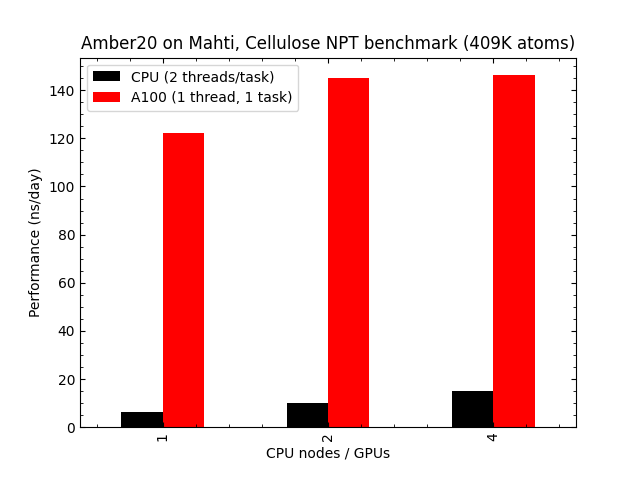
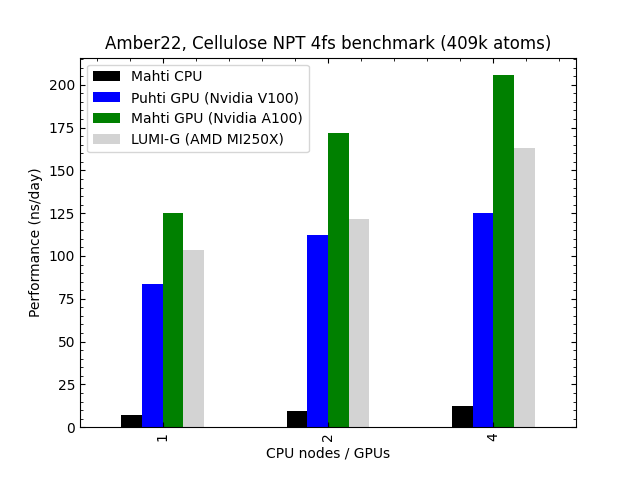
Add LUMI documentation for Amber (#1532)
* Add LUMI documentation for Amber

* edits

* add throughput

* add throughput

* fix header

* typos

diff --git a/docs/apps/amber.md b/docs/apps/amber.md
@@ -15,6 +15,7 @@ refinement.
 
 * Puhti: 20, 20-cuda, 22, 22-cuda
 * Mahti: 20, 20-cuda, 22, 22-cuda
+* LUMI: 22-cpu, 22-gpu
 
 ## License
 
@@ -36,12 +37,15 @@ system preparation can be done on the login node as well (short serial AmberTool
 jobs).
 
 !!! info "Python modules"
-    Please use the Amber22 modules if you intend to run the Python scripts
-    distributed with AmberTools. These are not available in the older modules.
+    Please use the Amber22 modules on Puhti/Mahti if you intend to run the Python
+    scripts distributed with AmberTools. These are not available in the older modules,
+    nor on LUMI.
 
-Molecular dynamics jobs are best run with `pmemd.CUDA`. They are much faster
-on GPUs than on CPUs. Please note that using `pmemd.CUDA` requires a module
-with the `-cuda` extension.
+Molecular dynamics jobs are best run with `pmemd.cuda`. They are much faster
+on GPUs than on CPUs. Please note that using `pmemd.cuda` requires a module
+with the `-cuda` extension. Similarly, on LUMI one should use `pmemd.hip` (or
+`pmemd.hip.MPI` for multi-GPU simulations), which requires loading a module
+with the `-gpu` extension.
 
 !!! warning "Note"
     Run only GPU aware binaries in the GPU partitions. If you're unsure,
@@ -72,15 +76,13 @@ srun pmemd.cuda -O -i mdin -r restrt -x mdcrd -o mdout
 
 !!! info "Note"
     If you want to use more than one GPU, perform scaling tests to verify that the
-    jobs really become faster. The rule of thumb is that when you double the resources,
-    the job duration should decrease at least 1.5-fold. For overall performance info,
-    consult the [Amber benchmark scaling details](http://ambermd.org/GPUPerformance.php).
-    Typically, best efficiency is achieved with 1 GPU. For example, the Cellulose NPT
-    benchmark does not scale to multiple GPUs, but it is still massively faster on a
-    single GPU than the CPU version (see below).
-
-![Amber scaling on GPUs and CPUs on Mahti](../img/cellulose-amber.png 'Amber
-scaling on GPUs and CPUs on Mahti')
+    jobs really become faster and use a binary with `.cuda.MPI` or `.hip.MPI` extension.
+    The rule of thumb is that when you double the resources, the job duration should
+    decrease at least 1.5-fold. For overall performance info, consult the [Amber benchmark
+    scaling details](http://ambermd.org/GPUPerformance.php). Typically, best efficiency
+    is achieved with 1 GPU. For example, the Cellulose NPT benchmark does not scale well
+    to multiple GPUs, but it is still massively faster on a single GPU than the CPU
+    version (see diagram below).
 
 You can find example inputs from the Amber20 tests directory:
 
@@ -88,7 +90,7 @@ You can find example inputs from the Amber20 tests directory:
 ls $AMBERHOME/test
 ```
 
-The non-CUDA aware binaries, *e.g.* AmberTools, can be run as batch jobs in the
+The non-GPU aware binaries, *e.g.* AmberTools, can be run as batch jobs in the
 following way (on Puhti):
 
 ```bash
@@ -108,11 +110,12 @@ srun paramfit -i Job_Control.in -p prmtop -c mdcrd -q QM_data.dat
 ```
 
 !!! info "Note"
-    `pmemd.CUDA` is way faster than `pmemd.MPI`, so use a CPU-version only in
-    case you cannot use the GPU-version. If Amber performance is not fast
-    enough, consider using [Gromacs](gromacs.md), which can make use of more
-    CPU cores (*i.e.* scales further). In particular, for large scale or very
-    long MD simulations consider using a better scaling MD engine.
+    `pmemd.cuda` and `pmemd.hip` are way faster than `pmemd.MPI`, so use a
+    CPU-version only in case you cannot use the GPU-version. If Amber performance
+    is not fast enough, consider using [Gromacs](gromacs.md), which can make use
+    of more CPU cores (*i.e.* scales further). In particular, for large scale or
+    very long MD simulations consider using a better scaling MD engine. An alternative
+    is to [run ensemble simulations using multi-pmemd](#high-throughput-computing-with-amber).
 
 ### Interactive jobs
 
@@ -133,6 +136,117 @@ the `paramfit` task directly with:
 ```bash
 paramfit -i Job_Control.in -p prmtop -c mdcrd -q QM_data.dat
 ```
+
+### Amber on LUMI
+
+Amber can be loaded into use on LUMI with:
+
+```bash
+module use /appl/local/csc/modulefiles
+module load amber/22-gpu
+# or
+module load amber/22-cpu
+```
+
+!!! info "Note"
+    You need to run the `module use` command to modify your `$MODULEPATH`,
+    otherwise modules pre-installed by CSC cannot be accessed.
+
+Example batch job script for LUMI-G:
+
+```bash
+#!/bin/bash -l
+#SBATCH --partition=small-g
+#SBATCH --nodes=1
+#SBATCH --ntasks-per-node=1
+#SBATCH --gpus-per-node=1
+#SBATCH --time=01:00:00
+#SBATCH --account=<project>
+
+module purge
+module use /appl/local/csc/modulefiles
+module load amber/22-gpu
+
+srun pmemd.hip.MPI -O -i mdin.GPU -o mdout.GPU -p Cellulose.prmtop -c Cellulose.inpcrd
+```
+
+A performance comparison of Amber on CPUs and GPUs on Puhti, Mahti and LUMI is shown
+in the bar plot below. Note how the performance of a single GPU on all systems is an
+order of magnitude better than a full Mahti CPU node (128 cores).
+
+![Amber scaling on GPUs and CPUs on Puhti, Mahti and LUMI](../img/cellulose-amber.png 'Amber
+scaling on GPUs and CPUs on Puhti, Mahti and LUMI')
+
+!!! info "GPU binding on LUMI"
+    For best performance, *multi-GPU* simulations on LUMI-G are likely to
+    benefit from GPU binding. For background and instructions, see the
+    [LUMI documentation](https://docs.lumi-supercomputer.eu/runjobs/scheduled-jobs/distribution-binding/#gpu-binding).
+
+General batch script examples for [LUMI-G](https://docs.lumi-supercomputer.eu/runjobs/scheduled-jobs/lumig-job/)
+and [LUMI-C](https://docs.lumi-supercomputer.eu/runjobs/scheduled-jobs/lumic-job/) are available in the LUMI
+documentation.
+
+### High-throughput computing with Amber
+
+Similar to [Gromacs multidir](gromacs.md#high-throughput-computing-with-gromacs),
+Amber has a built-in "multi-pmemd" functionality, which allows you to run multiple
+MD simulations within a single Slurm allocation. This is an efficient option in cases
+where you want to run many similar, but independent, simulations. Typical use cases
+are enhanced sampling methods such as umbrella sampling or replica exchange MD. Also,
+since Amber simulations do not scale that well to multiple GPUs, multi-pmemd can be
+used as a straightforward method to accelerate sampling by launching several differently
+initialized copies of your system, all running simultaneously on a single GPU each.
+
+!!! info "Note"
+    GPU resources on Puhti and Mahti are scarce, so we recommend running large-scale multi-pmemd
+    simulations only on LUMI. LUMI-G has a massive GPU capacity available, which is also [more
+    affordable in terms of BUs](https://docs.lumi-supercomputer.eu/runjobs/lumi_env/billing/)
+    compared to Puhti and Mahti.
+
+An example multi-pmemd batch script for LUMI-G is provided below.
+
+```bash
+#!/bin/bash -l
+#SBATCH --partition=standard-g
+#SBATCH --nodes=2
+#SBATCH --ntasks-per-node=8
+#SBATCH --gpus-per-node=8
+#SBATCH --time=01:00:00
+#SBATCH --account=<project>
+
+module purge
+module use /appl/local/csc/modulefiles
+module load amber/22-gpu
+
+srun pmemd.hip.MPI -ng 16 -groupfile groupfile
+```
+
+In this example, 16 copies of a system are run concurrently within a single Amber job,
+each using 1 GPU. From the perspective of Slurm, each node on LUMI-G contains 8 GPUs,
+so 2 nodes are requested in total. The input, output, topology and coordinate files
+for the respective simulations are defined in a so-called `groupfile`:
+
+```bash
+-O -i mdin.GPU -o mdout000.GPU -p system000.prmtop -c system000.inpcrd
+-O -i mdin.GPU -o mdout001.GPU -p system001.prmtop -c system001.inpcrd
+-O -i mdin.GPU -o mdout002.GPU -p system002.prmtop -c system002.inpcrd
+-O -i mdin.GPU -o mdout003.GPU -p system003.prmtop -c system003.inpcrd
+-O -i mdin.GPU -o mdout004.GPU -p system004.prmtop -c system004.inpcrd
+-O -i mdin.GPU -o mdout005.GPU -p system005.prmtop -c system005.inpcrd
+-O -i mdin.GPU -o mdout006.GPU -p system006.prmtop -c system006.inpcrd
+-O -i mdin.GPU -o mdout007.GPU -p system007.prmtop -c system007.inpcrd
+-O -i mdin.GPU -o mdout008.GPU -p system008.prmtop -c system008.inpcrd
+-O -i mdin.GPU -o mdout009.GPU -p system009.prmtop -c system009.inpcrd
+-O -i mdin.GPU -o mdout010.GPU -p system010.prmtop -c system010.inpcrd
+-O -i mdin.GPU -o mdout011.GPU -p system011.prmtop -c system011.inpcrd
+-O -i mdin.GPU -o mdout012.GPU -p system012.prmtop -c system012.inpcrd
+-O -i mdin.GPU -o mdout013.GPU -p system013.prmtop -c system013.inpcrd
+-O -i mdin.GPU -o mdout014.GPU -p system014.prmtop -c system014.inpcrd
+-O -i mdin.GPU -o mdout015.GPU -p system015.prmtop -c system015.inpcrd
+```
+
+See the [Amber manual](https://ambermd.org/doc12/Amber22.pdf) for further details
+on multi-pmemd.
 
 ## References
 

diff --git a/docs/computing/running/throughput.md b/docs/computing/running/throughput.md
@@ -53,7 +53,7 @@ regarding how to implement your workflow.
 ```mermaid
 %%{init: {'theme': 'default', 'themeVariables': { 'fontSize': '0.6rem'}}}%%
 graph TD
-    C(Does your software have a built-in HTC option?) -->|Yes| D("Use if suitable for use case:<br><a href='/apps/gromacs/#high-throughput-computing-with-gromacs'>Gromacs</a>, <a href='/apps/cp2k/#high-throughput-computing-with-cp2k'>CP2K</a>, <a href='/apps/lammps/#high-throughput-computing-with-lammps'>LAMMPS</a>, Python, R ")
+    C(Does your software have a built-in HTC option?) -->|Yes| D("Use if suitable for use case:<br><a href='/apps/gromacs/#high-throughput-computing-with-gromacs'>Gromacs</a>, <a href='/apps/cp2k/#high-throughput-computing-with-cp2k'>CP2K</a>, <a href='/apps/lammps/#high-throughput-computing-with-lammps'>LAMMPS</a>, <a href='/apps/amber/#high-throughput-computing-with-amber'>Amber</a>,<br> Python, R ")
     C -->|No| E(Serial or parallel subtasks?)
     E -->|Serial| F(<a href='/support/tutorials/many/'>GNU Parallel</a><br><a href='/computing/running/array-jobs/'>Array jobs</a><br><a href='/apps/hyperqueue/'>HyperQueue</a>)
     E -->|Parallel| G(Single- or multinode subtasks?)
@@ -178,6 +178,7 @@ workflows.
 * [Gromacs multidir option][gmx]
 * [FARMING mode of CP2K][cp2k] (supports dependencies between subjobs)
 * [LAMMPS multi-partition switch][lmp]
+* [Amber multi-pmemd][amber-multi-pmemd]
 * Python:
     * [Python parallel jobs](../../apps/python.md#python-parallel-jobs)
     * [CSC Dask tutorial](../../support/tutorials/dask-python.md)
@@ -192,6 +193,7 @@ workflows.
 
 [built-in option for farming-type workloads]: throughput.md#workflow-tools-integrated-into-common-simulation-software
 [gmx]: ../../apps/gromacs.md#high-throughput-computing-with-gromacs
+[amber-multi-pmemd]: ../../apps/amber.md#high-throughput-computing-with-amber
 [cp2k]: ../../apps/cp2k.md#high-throughput-computing-with-cp2k
 [lmp]: ../../apps/lammps.md#high-throughput-computing-with-lammps
 [HyperQueue]: ../../apps/hyperqueue.md
